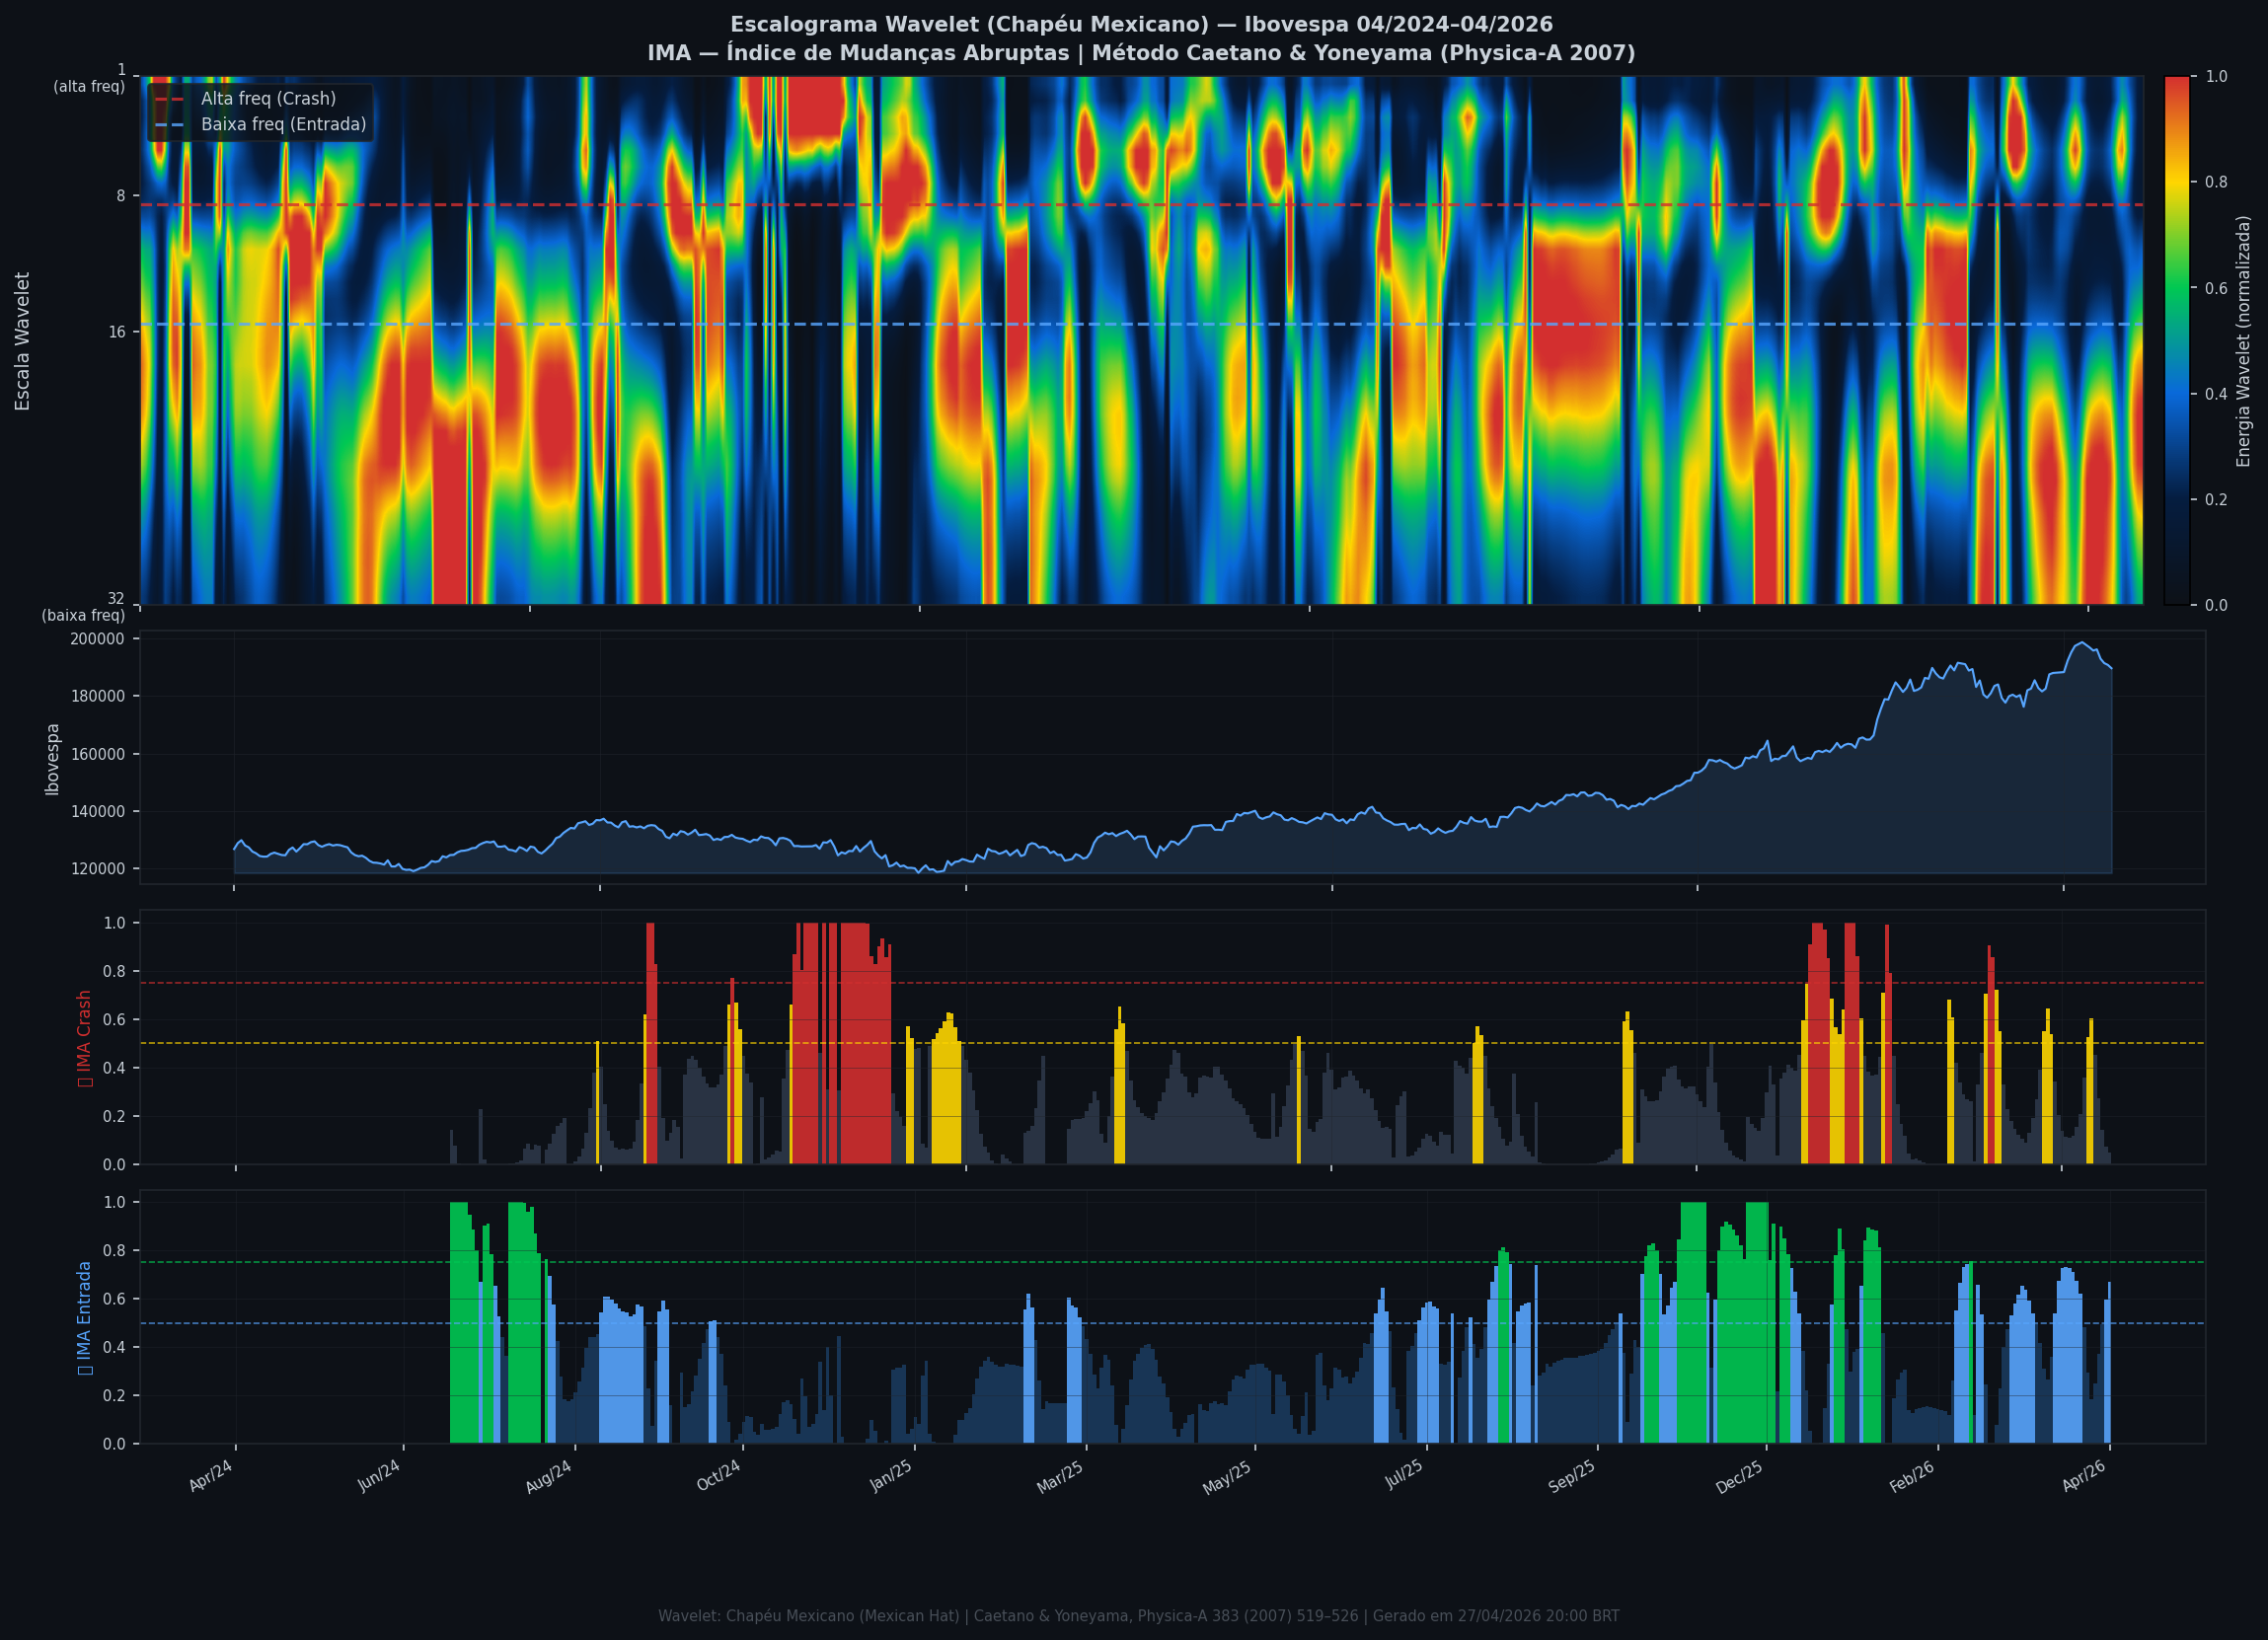
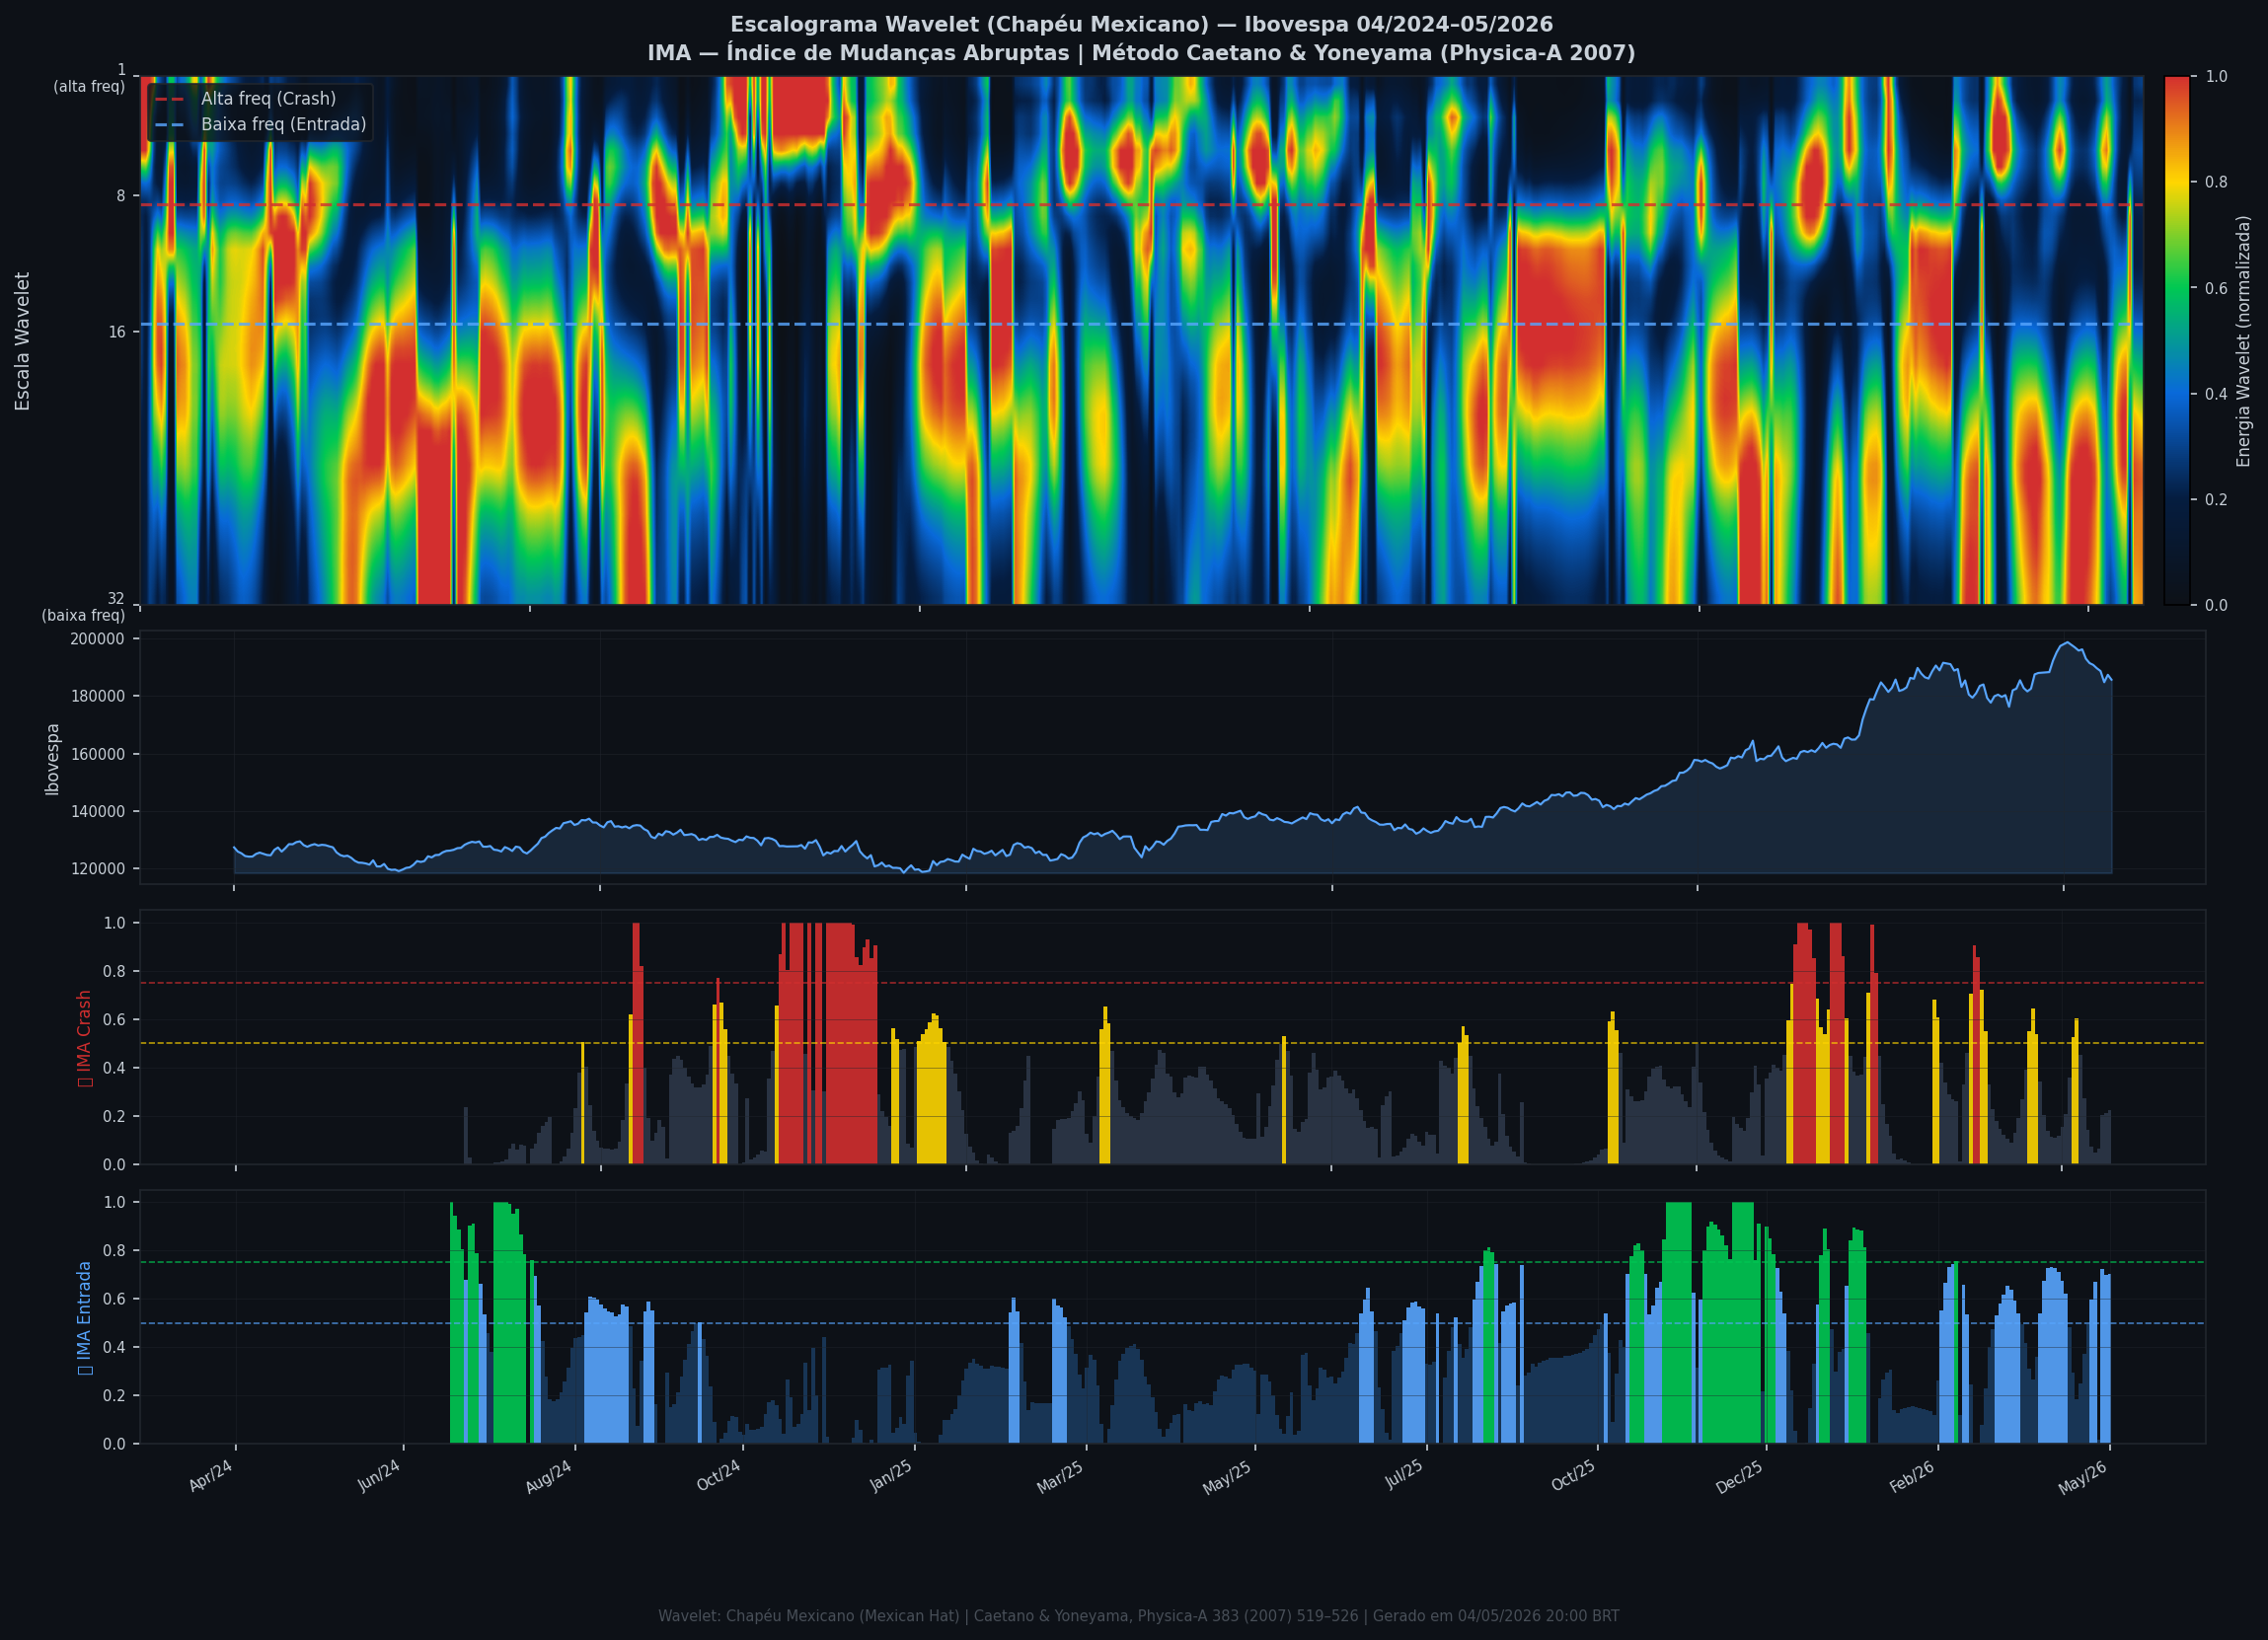
🤖 Auto: Sinal 04/05/2026 21:15

diff --git a/content/index.md b/content/index.md
@@ -1,33 +1,33 @@
 ---
 title: Sinal de Crise B3
-date: 2026-04-30
+date: 2026-05-04
 tags: [home]
 ---
 
-# 🟢 Sinal de Crise B3
+# 🔴 Sinal de Crise B3
 
 > Monitoramento diário e intraday do Ibovespa usando o método **IMA Wavelet** do Prof. Marco Antonio Leonel Caetano (ITA/INSPER) e **LPPL** do Prof. Didier Sornette (ETH-Zurich).
 
 ---
 
-## Sinal Atual — 30/04/2026 01:10 BRT
-*^BVSP | Diário D1*
+## Sinal Atual — 04/05/2026 21:10 BRT
+*^BVSP | Intraday 15min*
 
 | Indicador | Valor |
 |---|---|
-| **Zona** | 🟢 **VERDE** |
-| **Risco Combinado** | **24.6%** |
-| 🔴 IMA Crash | 7.1% |
-| 🔵 IMA Entrada | 55.3% |
+| **Zona** | 🔴 **VERMELHO** |
+| **Risco Combinado** | **76.5%** |
+| 🔴 IMA Crash | 76.5% |
+| 🔵 IMA Entrada | 12.8% |
 | 📐 LPPL Sornette | 42.0% |
-| Ibovespa | 190,745 pts |
-| 💵 USD/BRL IMA Crash | 27.8% 🟢 |
-| 💵 USD/BRL IMA Entrada | 72.2% |
-| Ativos em tensão | 0% (0🔴 0🟡) |
+| Ibovespa | 185,676 pts |
+| 💵 USD/BRL IMA Crash | 36.6% 🟢 |
+| 💵 USD/BRL IMA Entrada | 54.5% |
+| Ativos em tensão | 41% (5🔴 6🟡) |
+
+> ⚠️ **ALERTA**: Padrão pré-crise detectado. Revise exposição.
 
 
-
-> ✅ Sem sinal de crise no momento.
 
 ---
 

diff --git a/content/intraday/2026-05-04-2110.md b/content/intraday/2026-05-04-2110.md
@@ -1,0 +1,25 @@
+---
+title: "Intraday 04/05/2026 21:10"
+date: 2026-05-04
+hora: "21:10"
+tags: [intraday, ibovespa, 15min]
+zona: VERMELHO
+risco: 76.5%
+---
+
+# 🔴 Intraday — 04/05/2026 21:10
+
+| Indicador | Valor |
+|---|---|
+| **Zona** | 🔴 **VERMELHO** |
+| **Risco IMA** | **76.5%** |
+| 🔴 IMA Crash 15min | 76.5% |
+| 💵 USD/BRL IMA Crash | 36.6% 🟢 |
+| 💵 USD/BRL IMA Entrada | 54.5% |
+| Ativos em tensão | 41% (5🔴 6🟡) |
+
+![](../graficos/crise_BVSP_intraday_20260504_2105.png)
+
+![](../graficos/monitor_multi_intraday_20260504_2102.png)
+
+> *Atualizado às 21:10 BRT — Método IMA Wavelet Chapéu Mexicano (Caetano/ITA)*